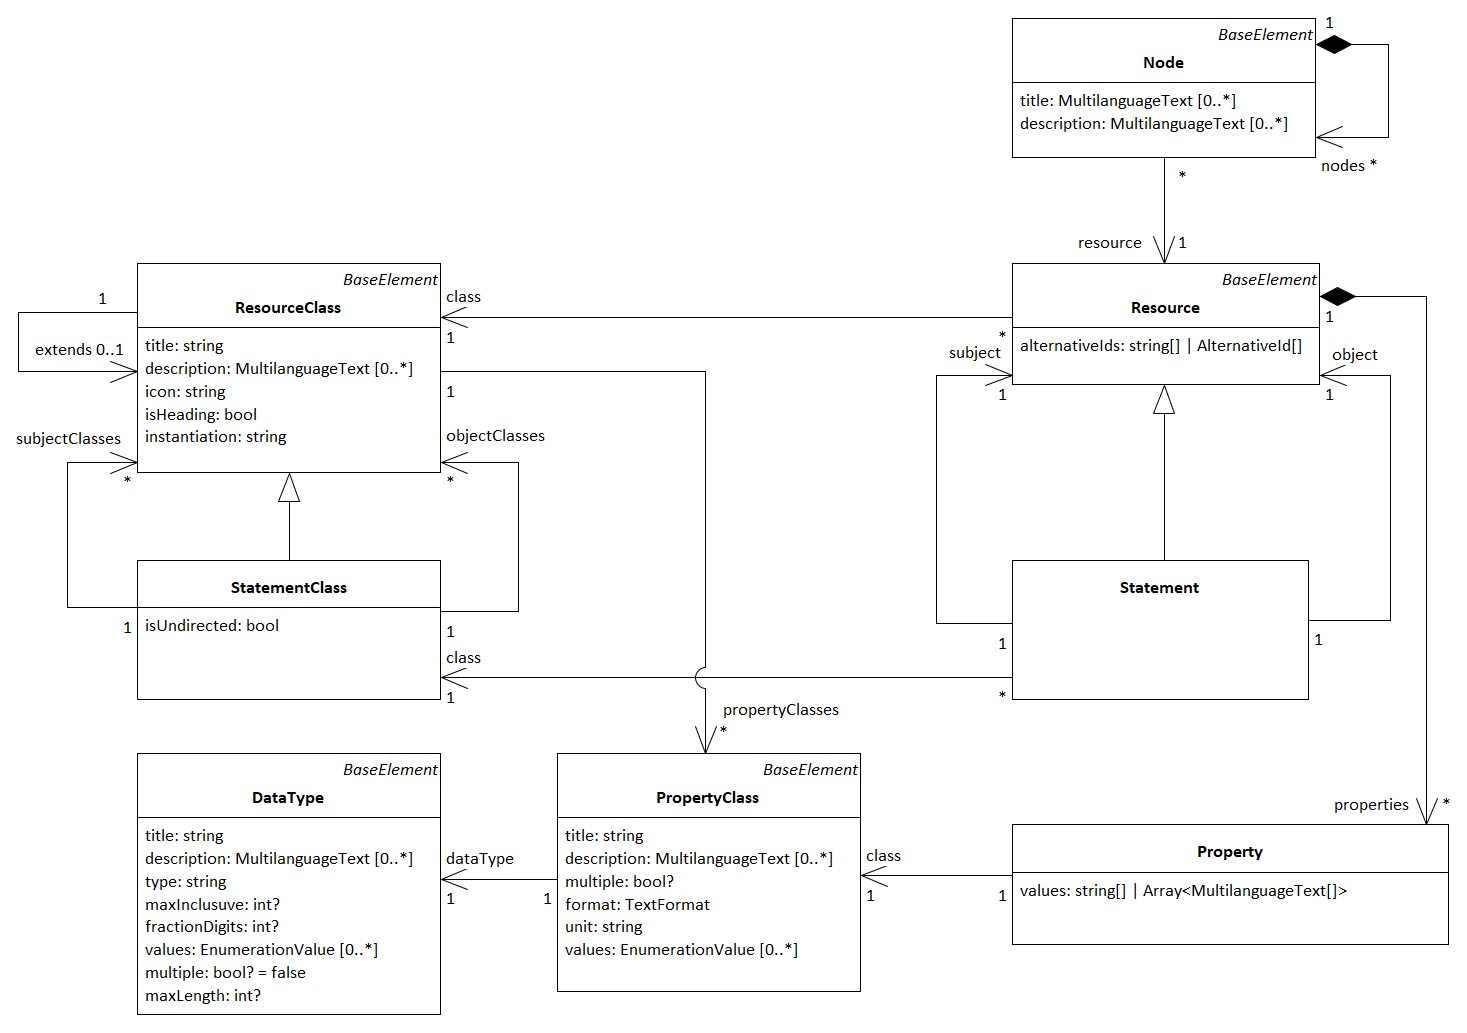
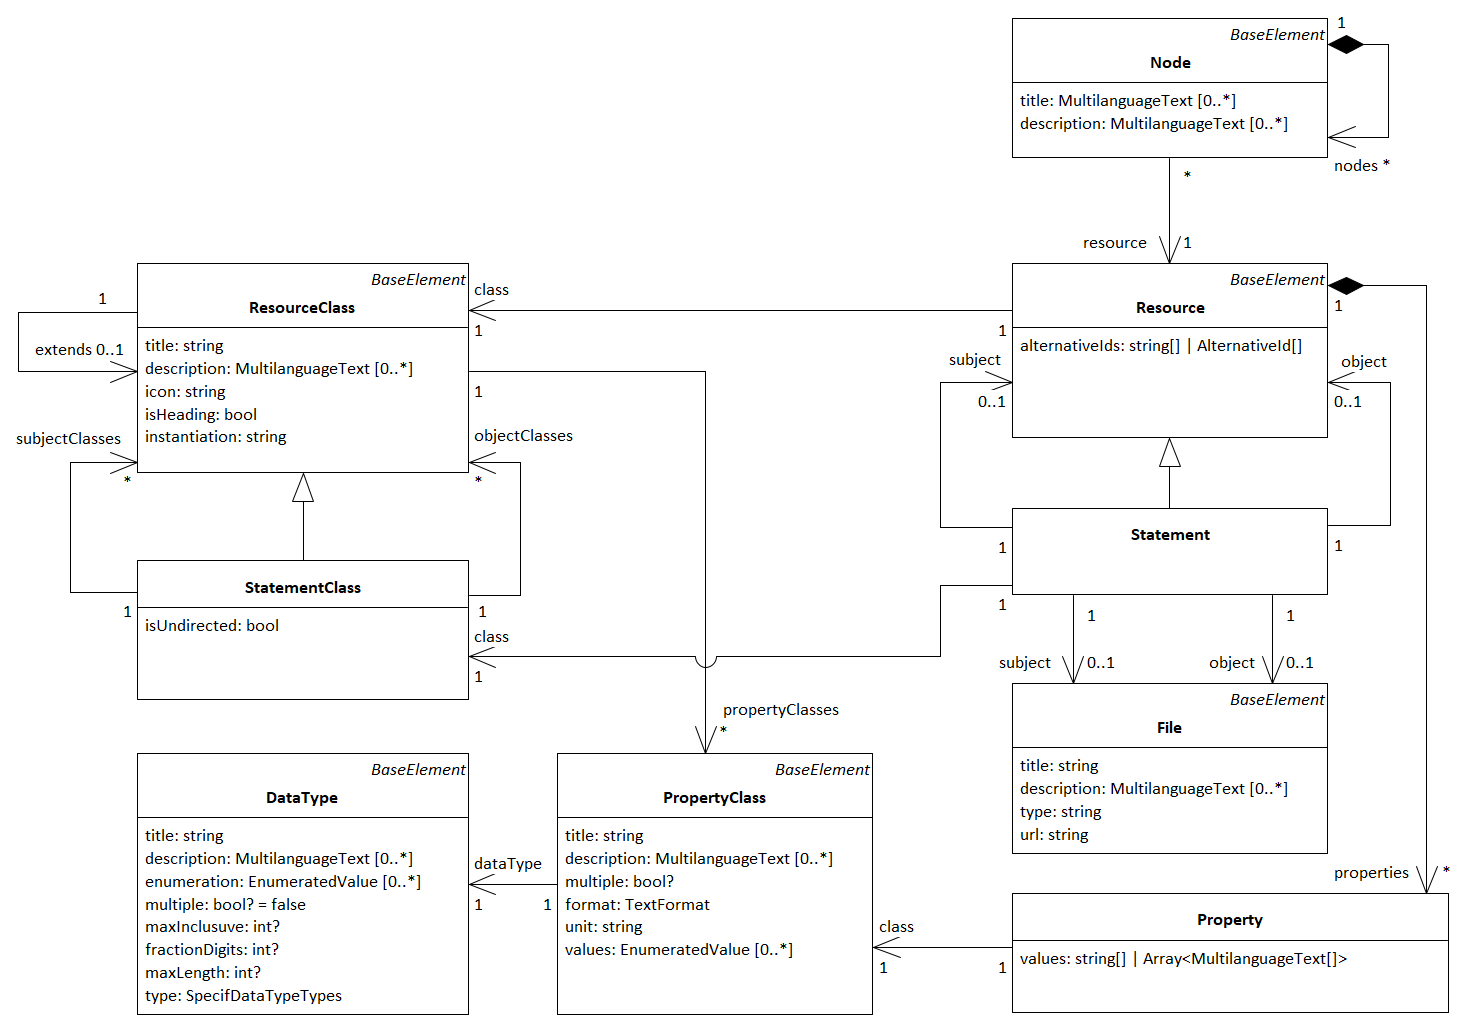
Update metamodel documentation after schema changes for Enumeration definitions.

diff --git a/documentation/03_SpecIF_Metamodel.md b/documentation/03_SpecIF_Metamodel.md
@@ -1,6 +1,6 @@
 # SpecIF-Metamodel
 
-This section describes the SpecIF-Metamodel.
+This section describes the SpecIF-Metamodel used to define the syntax of SpecIF.
 
 The description by a metamodel is done in a technology independent way following the OMG [Meta Object Facility (MOF) Metamodeling](https://www.omg.org/mof/) technology 
 and the OMG [Model Driven Architecture (MDA)](https://www.omg.org/mda/) approach. 
@@ -145,11 +145,13 @@ This class defines three attributes:
 Typically an array of these MultilanguageText objects is used to represent a value in multiple languages.
 Each single array value contains the same text content but in a specific language (english, german etc.).
 
-### EnumerationValue
+### EnumeratedValue
 
-![The metaclass *EnumerationValue*](./images/Metaclass_EnumerationValue.png)
+![The metaclass *EnumeratedValue*](./images/Metaclass_EnumerationValue.png)
 
-To define enumerations in SpecIF the metaclass *EnumerationValue* is used to define the values for a enumeration data type.
+To define enumerations in SpecIF the metaclass *EnumerationValue* is used to define the values for a enumerations in data types. 
+In SpecIF different data types can be defined as Enumerations by defining a set of predefined values. 
+This is done using the EnumeratedValue. 
 
 This class defines two attributes:
 
@@ -194,17 +196,26 @@ So the DataType metaclass defines the following attributes to satisfy these requ
 
 * *title: string* - A unique name for the defined data type (e.g. 'string')
 * *description: MultilanguageText[]* - A human readable description of the data type for documentation purposes.
-* *type* - A formal definition of the used base type. The allowed types are:
-  * string
-  * integer
-  * double
-  * DateTime
-  * Enumeration
+* *type* - A formal definition of the used base type. The allowed types are taken from the XML-stylesheet-standard (https://www.w3.org/TR/xmlschema11-1/) and defined in the metamodel as Enumeration *DataTypeTypes* as follows:
+  * xs:boolean
+  * xs:dateTime
+  * xs:anyURI
+  * xs:integer
+  * xs:double
+  * xs:string
 * *maxInclusive* - The maximum value for a numeric data type
 * *fractionDigits* - The number of digits for floating point numbers
-* *values* - A list of enumeration values.
+* *enumeration* - A list of enumeration values.
 * *multiple: bool* - This flag indicates for enumeration definitions, that a multiple selection of enumeration values should be possible.
 * *maxLength: int* - The maximum length of a text value.
+
+It is possible to restrict the possible values for a data type. 
+In this manner enumerated data types can be defined and used. 
+The allowed values are defined by the attribute *enumeration* using a list of *EnumeratedValue* elements.
+
+Because of the fact, that different data types are allowed for an enumeration definition, it is possible to define for example a set of strings as enumeration or a set of numbers etc.
+This might be helpful for example to define a data type for story points used in the agile project management, often defined as Fibonacci numbers.
+
 
 ### PropertyClass
 
@@ -292,18 +303,18 @@ So you can represent these 'legacy' IDs in SpecIF.
 
 A *Statement* is an instance of a StatementClass and the element in SpecIf that defines the edge in the graph data structure.
 Statements allow to define predicate logic in form of *Subject - Predicate - Object*. 
-The subject and the object are Resources or Statements, the Predicate is always a Statement.
+The subject and the object are Resources, Statements of File elements, the Predicate is always a Statement.
 
 A Statement is inherited from Resource and has the following additional attributes:
 
-* *subject* - A reference to the Resource or Statement that is used as subject for the Statement.
-* *object* - A reference to the Resource or Statement that is used as object for the Statement.
+* *subject* - A reference to the Resource, Statement or File that is used as subject for the Statement.
+* *object* - A reference to the Resource, Statement or File that is used as object for the Statement.
 
 ### Node
 
 ![The metaclass *Node*](./images/Metaclass_Hierarchy.png)
 
-The metaclasses *Node* allows it to define hierarchical data structures (trees) in SpecIF.
+The metaclass *Node* allows it to define hierarchical data structures (trees) in SpecIF.
 Typical application scenarios are hierarchical structures in textual specifications like documents and the structures in CAD and other modeling tools.
 
 The data is not directly included inside Node elements. 
